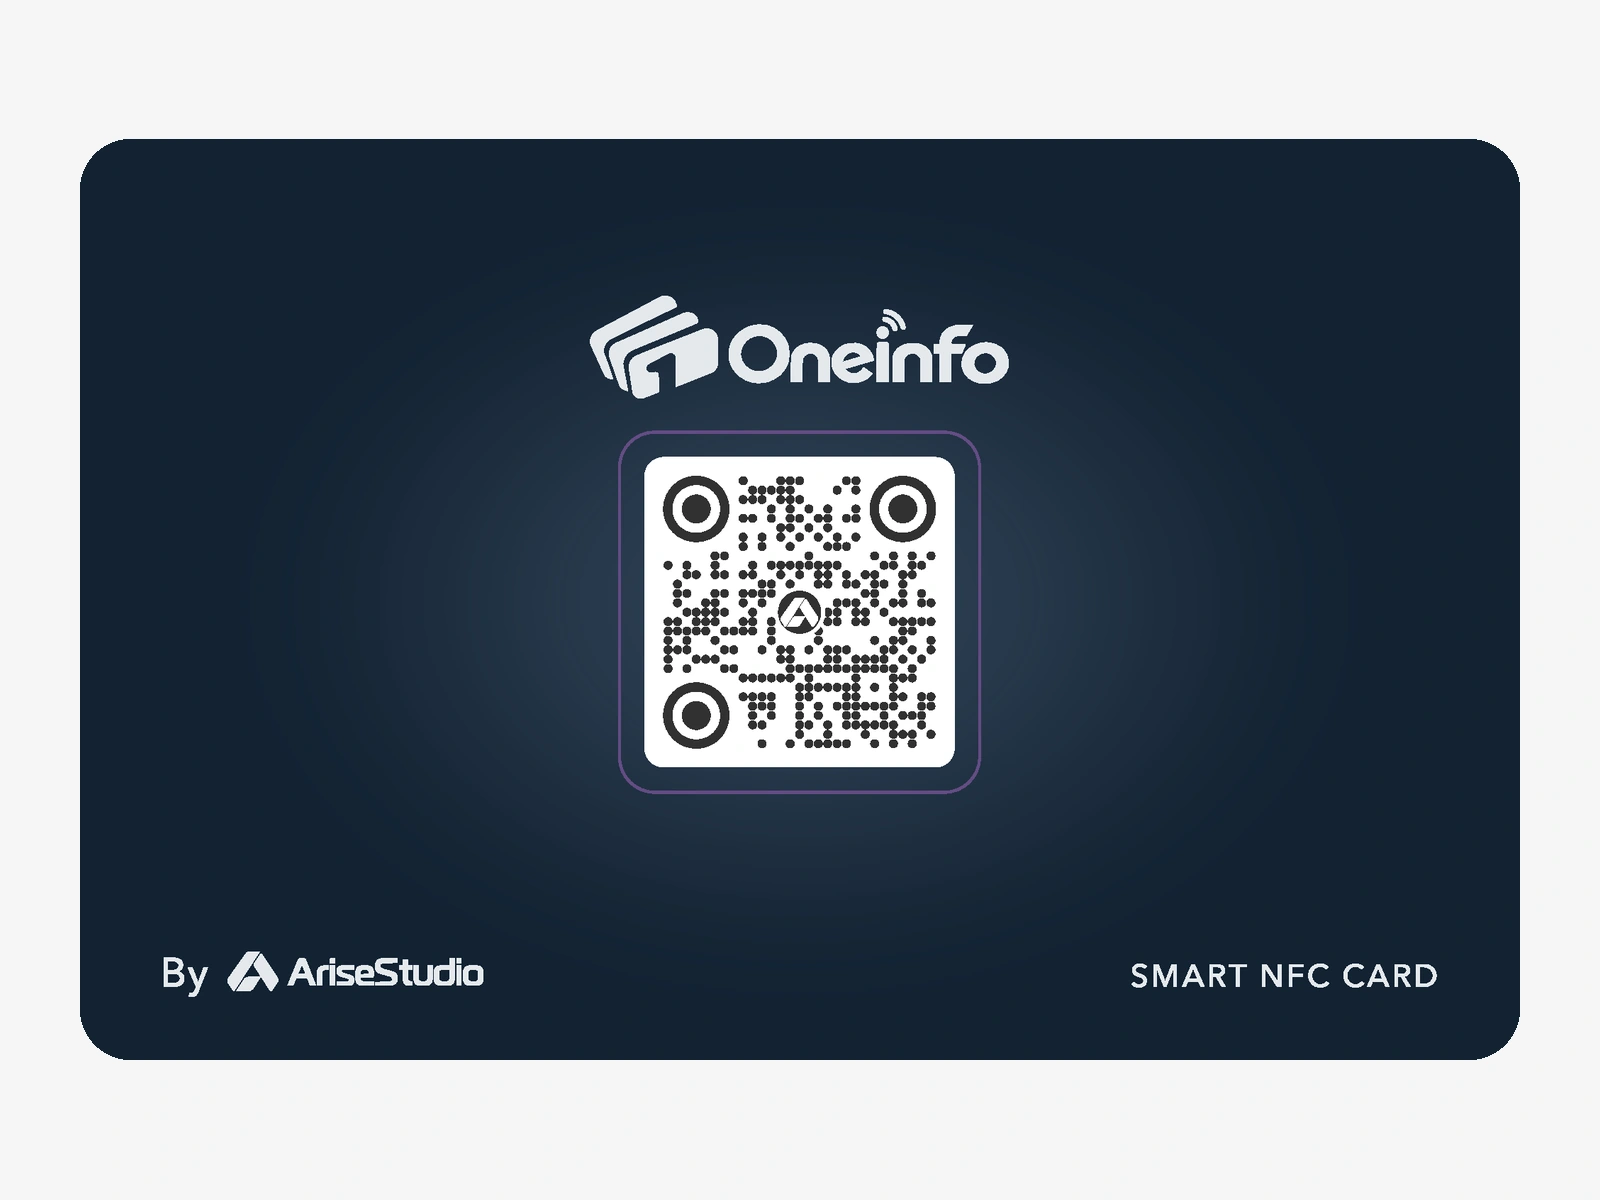
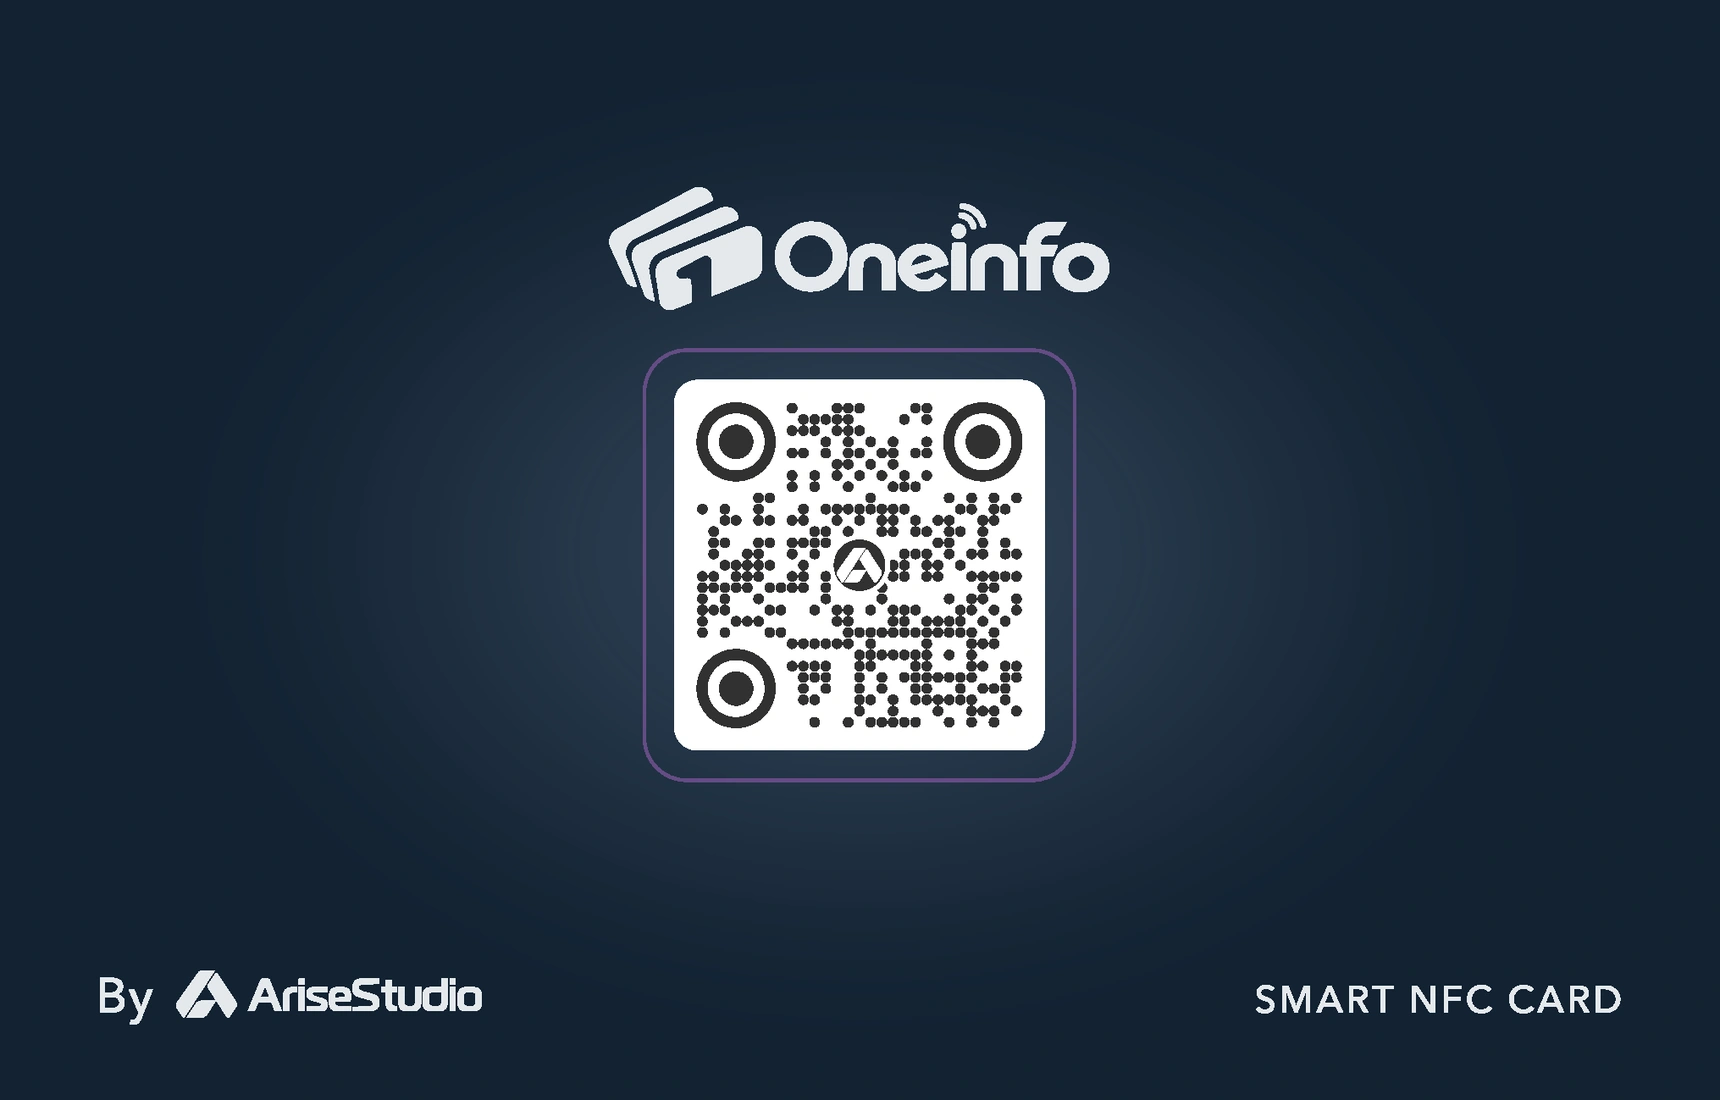
fix(storefront): restore sharing deck card ratio and remove team caption

diff --git a/sites/storefront/home.css b/sites/storefront/home.css
@@ -138,8 +138,8 @@
 .deck-panels p { font-size: .9375rem; line-height: 1.75; }
 .deck-stage { min-height: 530px; position: relative; isolation: isolate; }
 .deck-orbit { position: absolute; inset: 9% 0 2%; border: 1px solid #e2ddd3; border-radius: 50%; transform: rotate(-15deg); }
-.deck-card { position: absolute; width: 62%; aspect-ratio: 1.58; border-radius: 14px; overflow: hidden; transition: transform var(--dur-smooth) var(--ease-premium), opacity var(--dur-normal) var(--ease-standard), box-shadow var(--dur-smooth) var(--ease-premium); box-shadow: 0 24px 45px rgba(18, 19, 22, 0.16); }
-.deck-card img { width: 100%; height: 100%; object-fit: cover; transform: scale(1.12, 1.3); }
+.deck-card { position: absolute; width: 62%; aspect-ratio: 1.564; border-radius: 14px; overflow: hidden; transition: transform var(--dur-smooth) var(--ease-premium), opacity var(--dur-normal) var(--ease-standard), box-shadow var(--dur-smooth) var(--ease-premium); box-shadow: 0 24px 45px rgba(18, 19, 22, 0.16); }
+.deck-card img { width: 100%; height: 100%; object-fit: cover; display: block; }
 .deck-card-back { left: 1%; top: 19%; transform: rotate(-18deg); }
 .deck-card-front { left: 3%; top: 32%; transform: rotate(-10deg); z-index: 1; }
 .deck-phone { position: absolute; width: 226px; min-height: 443px; right: 2%; top: 3%; z-index: 2; display: flex; flex-direction: column; align-items: center; background: #fff; padding: 42px 18px 23px; border: 6px solid #181a20; border-radius: 37px; box-shadow: 0 32px 50px rgba(18, 19, 22, 0.14); transform: rotate(4deg); }
@@ -231,7 +231,6 @@
 .team-identity-one:hover { transform: rotate(6deg) translateY(-8px) scale(1.02); z-index: 5; box-shadow: 0 32px 65px -10px rgba(0, 0, 0, 0.85); }
 .team-identity-two:hover { transform: rotate(-5deg) translateY(-8px) scale(1.02); z-index: 5; box-shadow: 0 32px 65px -10px rgba(0, 0, 0, 0.85); }
 .team-identity-three:hover { transform: rotate(2deg) translateY(-8px) scale(1.02); z-index: 5; box-shadow: 0 32px 65px -10px rgba(0, 0, 0, 0.85); }
-.team-stack-caption { position: absolute; bottom: -5px; right: 0; font-size: .64rem; color: #8c8577; }
 .store-faq { display: grid; grid-template-columns: minmax(0, .8fr) minmax(0, 1.2fr); gap: 70px; }
 .store-faq > div > p:last-child { font-size: .9rem; line-height: 1.8; }
 .store-faq .faq-list { padding-top: 0; }

diff --git a/sites/storefront/index.html b/sites/storefront/index.html
@@ -359,8 +359,8 @@
         </div>
         <div class="deck-stage" aria-label="Illustration of a Oneinfo card connecting to a sample digital profile">
           <div class="deck-orbit" aria-hidden="true"></div>
-          <div class="deck-card deck-card-back" aria-hidden="true"><img src="/assets/cards-final/light-front.webp" alt="" width="1600" height="1200" loading="lazy" /></div>
-          <div class="deck-card deck-card-front"><img src="/assets/cards-final/black-front.webp" alt="Oneinfo dark card" width="1600" height="1200" loading="lazy" /></div>
+          <div class="deck-card deck-card-back" aria-hidden="true"><img src="/assets/cards-final/light-front.webp" alt="" width="1720" height="1100" loading="lazy" /></div>
+          <div class="deck-card deck-card-front"><img src="/assets/cards-final/black-front.webp" alt="Oneinfo dark card" width="1720" height="1100" loading="lazy" /></div>
           <div class="deck-phone" aria-hidden="true">
             <span class="deck-phone-island"></span><span class="deck-phone-domain">Your Oneinfo profile</span>
             <span class="deck-avatar">AK</span><strong>Ayesha Karim</strong><span class="deck-role">Designer & creative thinker</span>
@@ -407,7 +407,6 @@
           <div class="team-identity team-identity-three">
             <img src="/assets/cards-showcase/card-1-front.webp" alt="Oneinfo Obsidian &amp; Champagne Gold team card" width="1016" height="650" loading="lazy" />
           </div>
-          <span class="team-stack-caption">Sample team designs</span>
         </div>
       </section>
 
